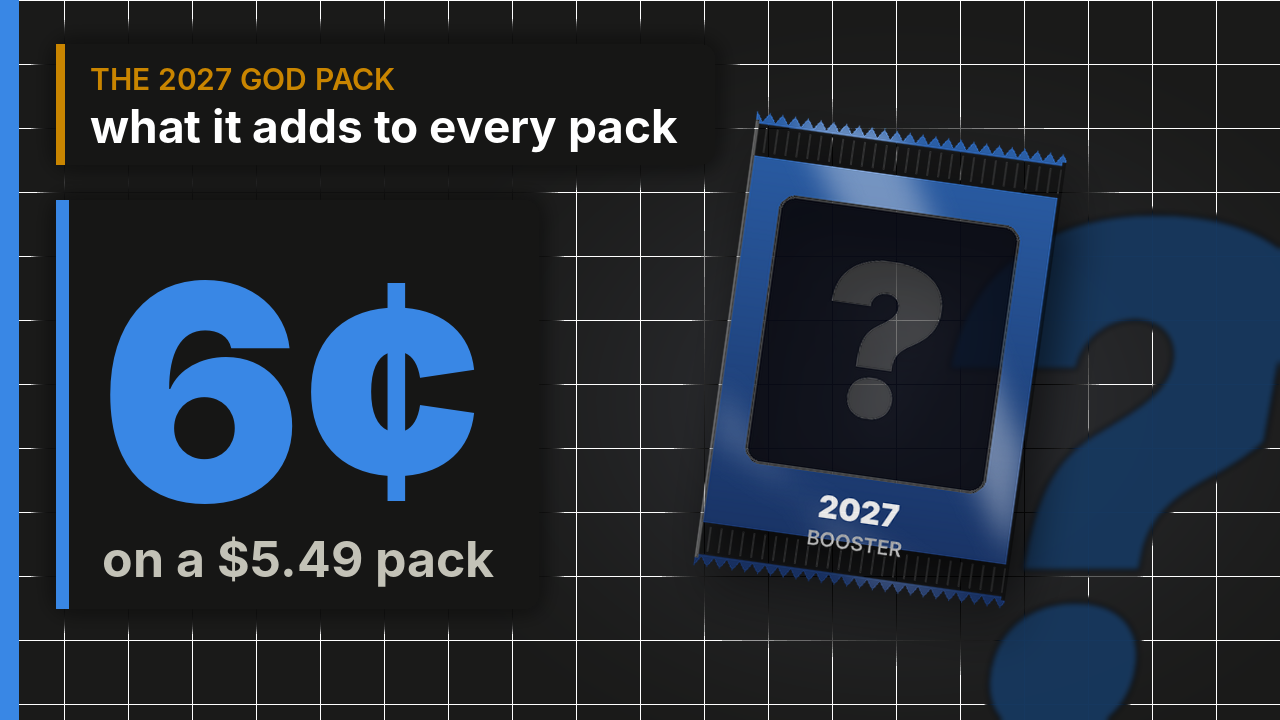
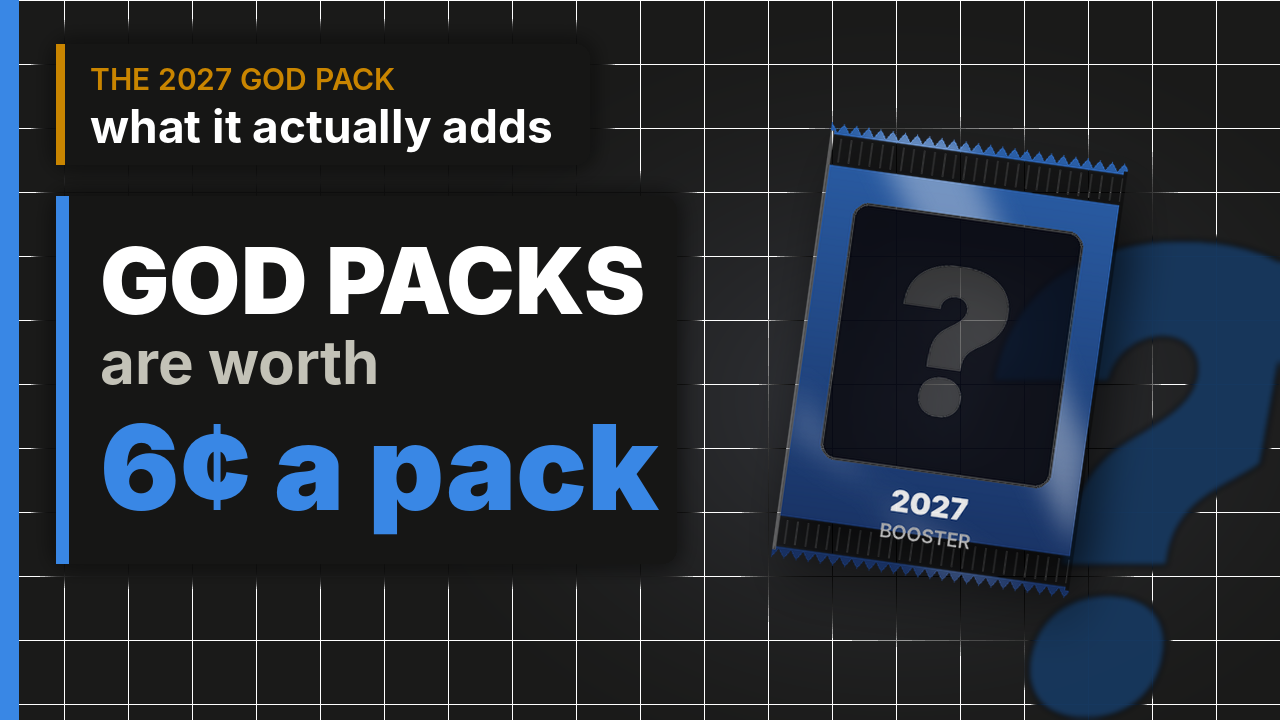
thumbnails: the hook is how little a god pack does (6c a pack, $3,800 for a coin flip, 0 of 62, $1.74 a box, you'll never open one)

Changed region(s): [[0.0312, 0.1528, 1.0, 1.0], [0.2188, 0.1528, 0.5312, 0.2139], [0.8125, 0.2139, 0.875, 0.2444]]

diff --git a/edit/thumbs.py b/edit/thumbs.py
@@ -95,7 +95,7 @@ def pack(w=340, h=500, col=(43, 95, 168), col2=(24, 48, 96), label='2027', mark=
     bd.rectangle((x0, y0 + 10, x0 + 3, y1 - 10), fill=(255, 255, 255, 70)); bd.rectangle((x1 - 3, y0 + 10, x1, y1 - 10), fill=(0, 0, 0, 90))
     return body
 
-def question_shadow(img, center, col, size=700, dx=255, dy=105):
+def question_shadow(img, center, col, size=640, dx=215, dy=110):
     """the pack's shadow is a question mark: a big '?' in the design colour, dark and soft, thrown behind and
     below-right of the pack, big enough to show around it. (a true cast shadow is invisible on a dark surface.)"""
     f = font('black', size); layer = Image.new('RGBA', img.size, (0, 0, 0, 0)); d = ImageDraw.Draw(layer)
@@ -112,55 +112,52 @@ def place_pack(img, center, rot=-8, scale=1.0, **kw):
     cx, cy = center; img.alpha_composite(soft, (int(cx - p.width / 2) + 10, int(cy - p.height / 2) + 26))
     img.alpha_composite(p, (int(cx - p.width / 2), int(cy - p.height / 2)))
 
-def hero(img, col, center=(880, 360), rot=-8, scale=0.92, **kw):
+def hero(img, col, center=(950, 360), rot=-8, scale=0.88, **kw):
     question_shadow(img, center, col)
     place_pack(img, center, rot=rot, scale=scale, mark='', **kw)
 
-# ----------------------------------------------------------------------------- designs
+# ----------------------------------------------------------------------------- designs: how little a god pack does
+def lines(img, xy, rows, bar, w=620):
+    """a plate with stacked lines: (text, font weight, size, colour). the thumbnail's one idea, big."""
+    d = ImageDraw.Draw(img); x0, y0 = xy; y = y0 + 28; h = 28
+    for t, wt, sz, col in rows: h += d.textbbox((0, 0), t, font=font(wt, sz))[3] + 10
+    plate(img, (x0, y0, x0 + w, y0 + h + 18)); d = ImageDraw.Draw(img)
+    d.rectangle((x0, y0, x0 + 12, y0 + h + 18), fill=bar)
+    for t, wt, sz, col in rows:
+        f = font(wt, sz); d.text((x0 + 44, y), t, font=f, fill=col); y += d.textbbox((0, 0), t, font=f)[3] + 10
+    return y0 + h + 18
+
 def d_six_cents():
     img = bg(BLUE); hero(img, BLUE)
-    tag(img, (56, 44), 'the 2027 god pack', 'what it adds to every pack')
-    callout(img, (56, 200), '6¢', 'on a $5.49 pack', BLUE, fb=300, fs=50)
+    tag(img, (56, 44), 'the 2027 god pack', 'what it actually adds')
+    lines(img, (56, 196), [('GOD PACKS', 'black', 92, INK), ('are worth', 'bold', 60, INK2), ('6¢ a pack', 'black', 118, BLUE)], BLUE)
     return img
 
-def d_ev():
-    img = bg(AQUA); hero(img, AQUA)
-    tag(img, (56, 44), 'ten years of boxes', 'is opening boosters +EV?')
-    x, y = callout(img, (56, 190), '$1.35', 'of cards per $1, on paper', AQUA, fb=150, fs=42)
-    callout(img, (56, y + 18), '49¢', 'per $1 once you sell it', RED, fb=150, fs=42, w=x - 56)
+def d_coin_flip():
+    img = bg(RED); hero(img, RED)
+    tag(img, (56, 44), 'the 2027 god pack', 'the odds, in boxes')
+    lines(img, (56, 196), [('$3,800', 'black', 150, RED), ('of boxes for a', 'bold', 56, INK2), ('coin flip at ONE', 'black', 66, INK)], RED)
     return img
 
-def d_myth():
+def d_zero():
     img = bg(MAGENTA); hero(img, MAGENTA)
-    plate(img, (56, 44, 740, 660)); d = ImageDraw.Draw(img)
-    d.text((96, 70), 'MYTH', font=font('black', 56), fill=RED)
-    d.text((96, 134), '"god packs make', font=font('bold', 54), fill=INK)
-    d.text((96, 194), '  boxes worth it"', font=font('bold', 54), fill=INK)
-    d.line([(96, 290), (700, 290)], fill=MUTED, width=2)
-    d.text((96, 318), 'MATH', font=font('black', 56), fill=AQUA)
-    d.text((96, 382), '+$1.74', font=font('black', 150), fill=INK)
-    d.text((100, 556), 'on a $151 box', font=font('bold', 50), fill=INK2)
+    tag(img, (56, 44), 'what if', 'god packs had always existed')
+    lines(img, (56, 196), [('0 of 62', 'black', 150, RED), ('boxes would flip', 'bold', 60, INK2), ('to a win. zero.', 'black', 74, INK)], RED)
     return img
 
-def d_ten_million():
-    img = bg(YELLOW); hero(img, YELLOW, center=(900, 360))
-    tag(img, (56, 44), 'the receipts', 'i opened 10 million packs')
-    callout(img, (56, 196), '1 in 70', 'boxes pay for themselves', AQUA, fb=170, fs=44)
-    callout(img, (56, 470), '49¢', 'per $1, in cash', RED, fb=120, fs=40)
+def d_per_box():
+    img = bg(YELLOW); hero(img, YELLOW)
+    tag(img, (56, 44), 'the 2027 god pack', 'per box')
+    lines(img, (56, 196), [('$1.74', 'black', 160, YELLOW), ('on a $151 box.', 'bold', 60, INK2), ("that's it.", 'black', 90, INK)], YELLOW)
     return img
 
-def d_question():
-    """the pack and the question, nothing else: for the version where the title does the talking."""
-    img = bg(BLUE, pool=(640, 380)); hero(img, BLUE, center=(600, 360), rot=-6, scale=1.0)
-    d = ImageDraw.Draw(img); f = font('black', 96)
-    for text, y, col in (('is opening', 40, INK), ('boosters +EV?', 590, INK)):
-        tw = d.textbbox((0, 0), text, font=f)[2]
-        glow = Image.new('RGBA', img.size, (0, 0, 0, 0)); gd = ImageDraw.Draw(glow)
-        gd.text(((W - tw) / 2, y), text, font=f, fill=(0, 0, 0, 200)); img.alpha_composite(glow.filter(ImageFilter.GaussianBlur(16)))
-        ImageDraw.Draw(img).text(((W - tw) / 2, y), text, font=f, fill=col)
+def d_never():
+    img = bg(AQUA); hero(img, AQUA)
+    tag(img, (56, 44), 'the 2027 god pack', 'one in a thousand packs')
+    lines(img, (56, 196), [('you will', 'black', 78, INK), ('probably never', 'black', 78, INK), ('open one', 'black', 78, AQUA), ('23 boxes for a coin flip', 'bold', 44, INK2)], AQUA)
     return img
 
-DESIGNS = {'six_cents': d_six_cents, 'ev': d_ev, 'myth': d_myth, 'ten_million': d_ten_million, 'question': d_question}
+DESIGNS = {'six_cents': d_six_cents, 'coin_flip': d_coin_flip, 'zero': d_zero, 'per_box': d_per_box, 'never': d_never}
 
 if __name__ == '__main__':
     for name, fn in DESIGNS.items():
